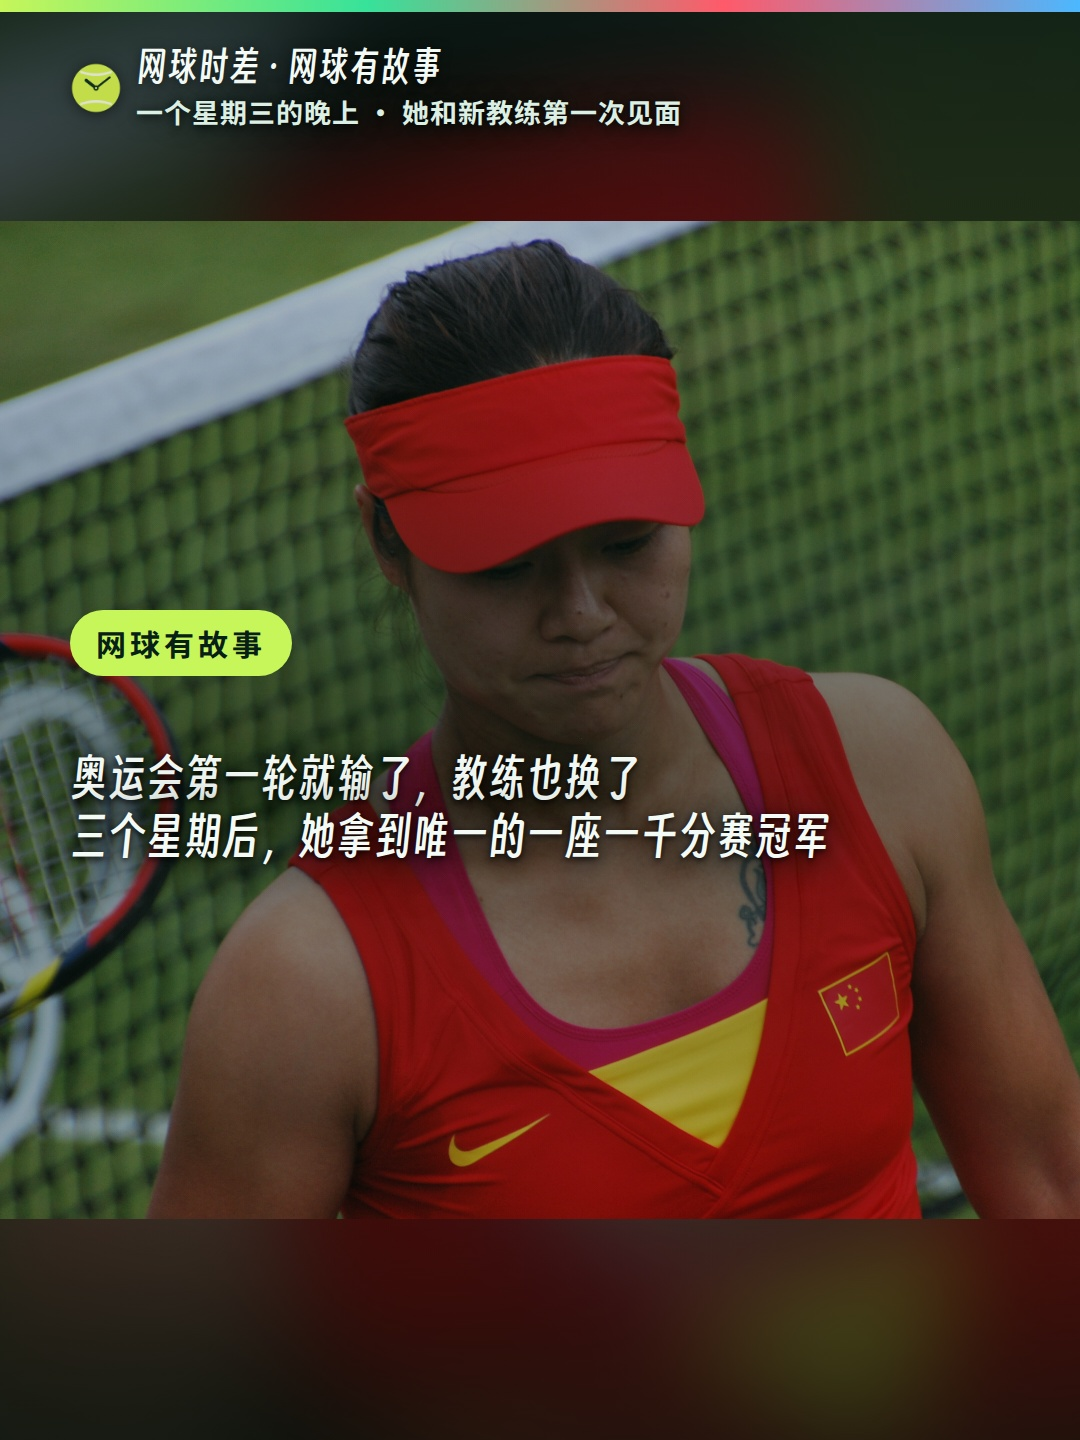
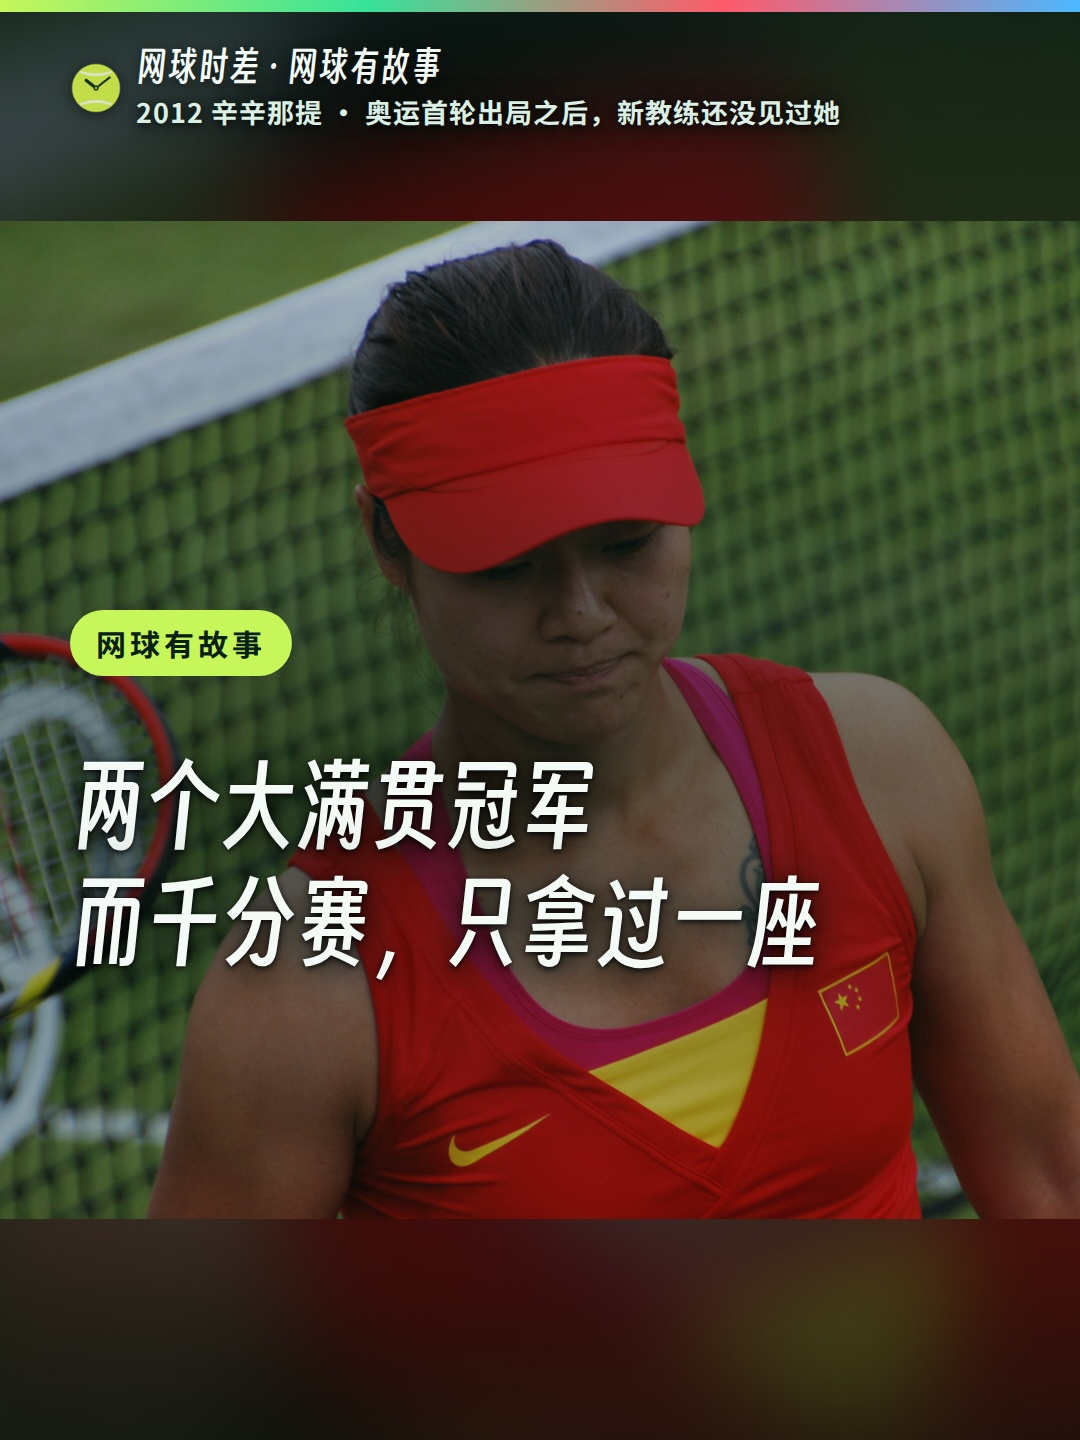
reel: render lina-cincinnati-2012

Changed region(s): [[0.0611, 0.5, 0.7944, 0.6875], [0.1222, 0.0625, 0.7944, 0.0938]]

diff --git a/output/2026-08-13/reel/lina-cincinnati-2012/copy.html b/output/2026-08-13/reel/lina-cincinnati-2012/copy.html
@@ -46,45 +46,47 @@
     </section>
     <section>
       <div class="label"><span>正文</span><button type="button" data-copy="body">复制正文</button></div>
-      <textarea id="body" readonly>奥运会第一轮就输了，教练也换了——三个星期后，李娜拿到她唯一的一座千分赛冠军
+      <textarea id="body" readonly>两个大满贯冠军，千分赛只拿过一座——奥运首轮出局三个星期后，李娜赢下辛辛那提
 
-两个大满贯冠军，一座 WTA1000。2012年8月19日的辛辛那提，是李娜整个生涯唯一一次拿下这个级别的冠军（当年叫超五巡回赛）。
+两个大满贯冠军，一座 WTA1000。2012年8月19日的辛辛那提，是她生涯唯一一次拿下这个级别（当年叫超五巡回赛）。
 
-先说她当时的处境。2011年6月法网夺冠之后，她成了亚洲第一个拿到大满贯单打冠军的人。然后是14个月，一个冠军都没有。
+2011年6月法网夺冠，她是亚洲第一个拿到大满贯单打冠军的人。然后是14个月，一个冠军都没有。
 
-2012年前七个月：澳网第四轮，法网第四轮、卫冕失败，温网第二轮，奥运会第一轮。
+2012年前七个月：澳网第四轮，法网第四轮卫冕失败，温网第二轮，奥运会第一轮。
 
-温网那一场淘汰她的是科斯蒂亚——记住这个名字。紧接着的奥运会女单首轮，她输给了自己的好朋友汉图楚娃。那一届奥运网球就打在温网的场地上：同一块草地，同一个夏天，她输了两次。
+温网淘汰她的是科斯蒂亚——记住这个名字。紧接着的奥运会女单首轮，她输给了好朋友汉图楚娃；那一届奥运网球就打在温网的场地上。同一块草地，同一个夏天，她输了两次。
 
-奥运会之后她宣布请了新教练，卡洛斯·罗德里格斯——把海宁带到世界第一、带出七个大满贯的那个阿根廷人。
+奥运会之后她宣布请了新教练卡洛斯·罗德里格斯——把海宁带到世界第一的那个阿根廷人。
 
-8月13日辛辛那提开赛，李娜9号种子，首轮轮空。第二轮的对手正是六个星期前把她淘汰出温网的科斯蒂亚。6-3、4-6、6-3，她丢了一盘，打满三盘才过。
+前一站是蒙特利尔。她一路打进决赛，半决赛6-2、6-1赢了头号种子拉德万斯卡；决赛遇上科维托娃，赶上下雨，拖到周一晚上才打完——5-7、6-2、3-6，又是一个亚军。
 
-而那一场，卡洛斯还不在她的教练席上。合作是宣布了，可两个人还从来没见过面。
+而辛辛那提8月11日就开赛了——她在蒙特利尔打决赛那个周一，那边已经打了两天。9号种子，首轮轮空；第二轮对手正是六周前把她淘汰出温网的科斯蒂亚，6-3、4-6、6-3，打满三盘才过。
 
-8月15日，星期三的晚上，卡洛斯到了辛辛那提。第二天第三轮，他第一次坐进她的包厢——对手是资格赛打上来的拉尔松，6-2、6-2。
+而那一场卡洛斯还不在她的教练席上——合作是宣布了，可两人还从没见过面。
+
+8月15日星期三的晚上，卡洛斯到了辛辛那提。第二天第三轮他第一次坐进她的包厢，对手是资格赛上来的拉尔松，6-2、6-2。
 
 从这一场开始，这一周剩下的比赛她只再丢了一盘。
 
-1/4决赛，头号种子拉德万斯卡，6-1、6-1。那个人一个多月前刚打进温网决赛。
+1/4决赛又碰上拉德万斯卡——一个多月前的温网亚军，几天前蒙特利尔半决赛的手下败将。6-1、6-1。
 
-半决赛，持外卡的大威廉姆斯，7-5、3-6、6-1。这是两人第三次交手，李娜第三次赢。
+半决赛，持外卡的大威廉姆斯，7-5、3-6、6-1，两人第三次交手她第三次赢。
 
-决赛对手科贝尔，她在这一站赢过小威廉姆斯。
+决赛对手科贝尔，她这一站赢过小威廉姆斯。
 
-第一盘，1-6。李娜赛后说：第一盘她打得难以置信，我想加快节奏，可她一个失误都没有，每一个球都回到我这边。
+第一盘，1-6。李娜赛后说：她打得难以置信，我想加快节奏，可她一个失误都没有。
 
-第二盘3-4、科贝尔发球那一局，来回打了24个小分、9次平分。李娜连着浪费七个破发点，最后才把它拿下来。
+第二盘3-4、科贝尔发球那一局来回打了24个小分、9次平分，李娜连着浪费七个破发点才拿下来。
 
 6-3扳回一盘。决胜盘她只丢了一局。
 
-1-6、6-3、6-1。距离上一个冠军，过去了一年零两个月。这是她2011年法网之后的第一个冠军，也是生涯第六个。
+1-6、6-3、6-1。这是她2011年法网之后的第一个冠军，生涯第六个。
 
-她在颁奖台上说了一句：我觉得这是一个很好的开始。
+她在颁奖台上说：我觉得这是一个很好的开始。
 
-五个月后她打进澳网决赛。一年零五个月后，她拿到第二个大满贯。
+五个月后她打进澳网决赛，一年零五个月后拿到第二个大满贯。
 
-而这一座奖杯，到她退役都是唯一的一座。
+而这座奖杯，到她退役都是唯一的一座。
 
 你还记得那个星期三的晚上吗？
 
